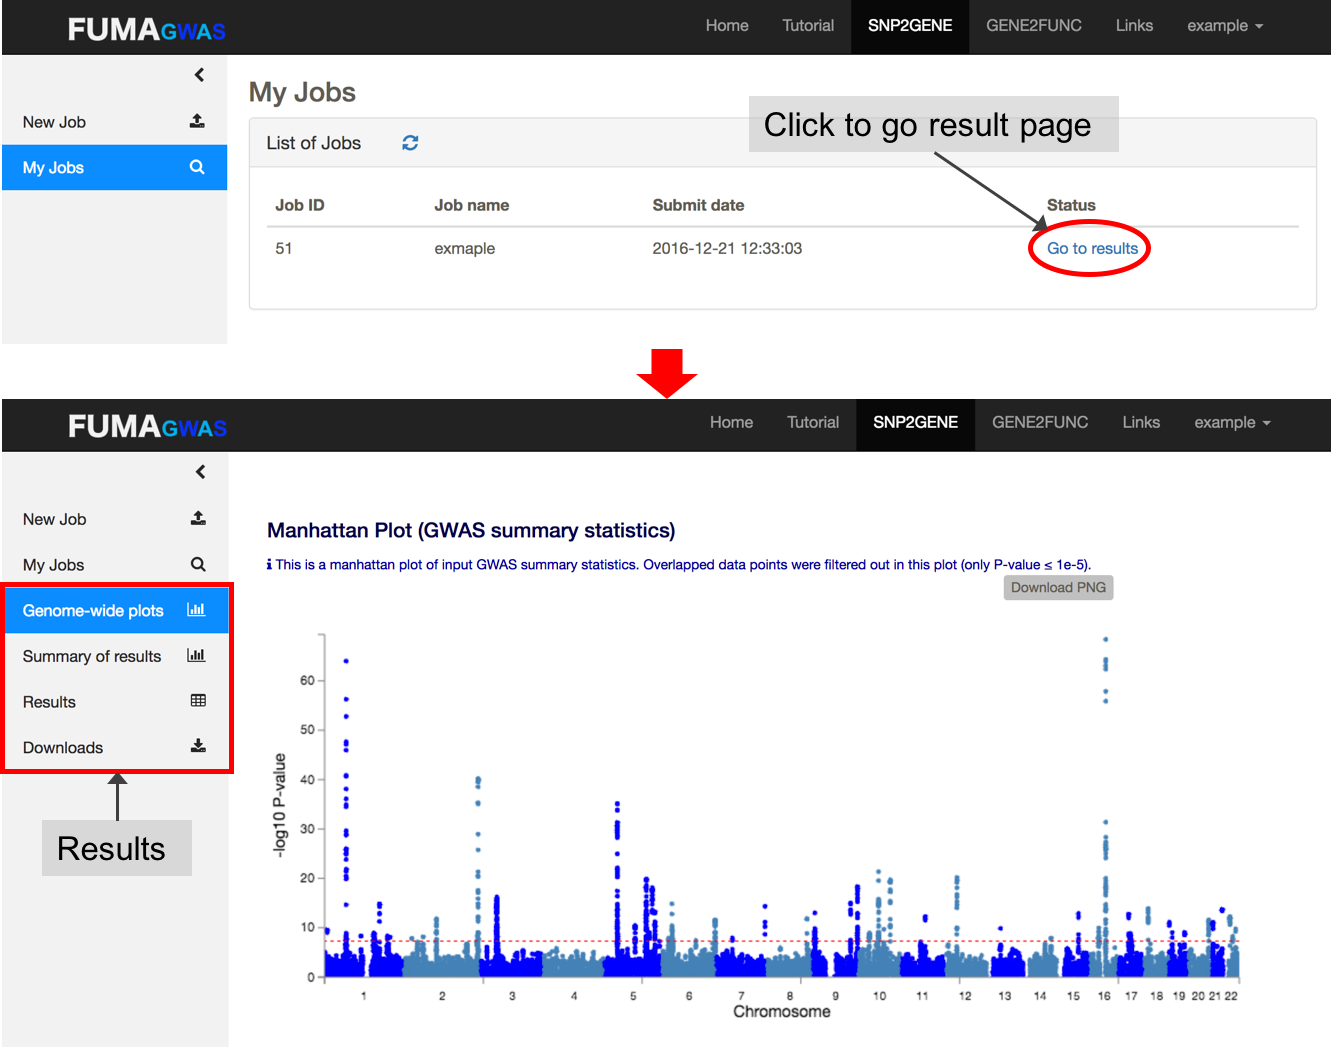
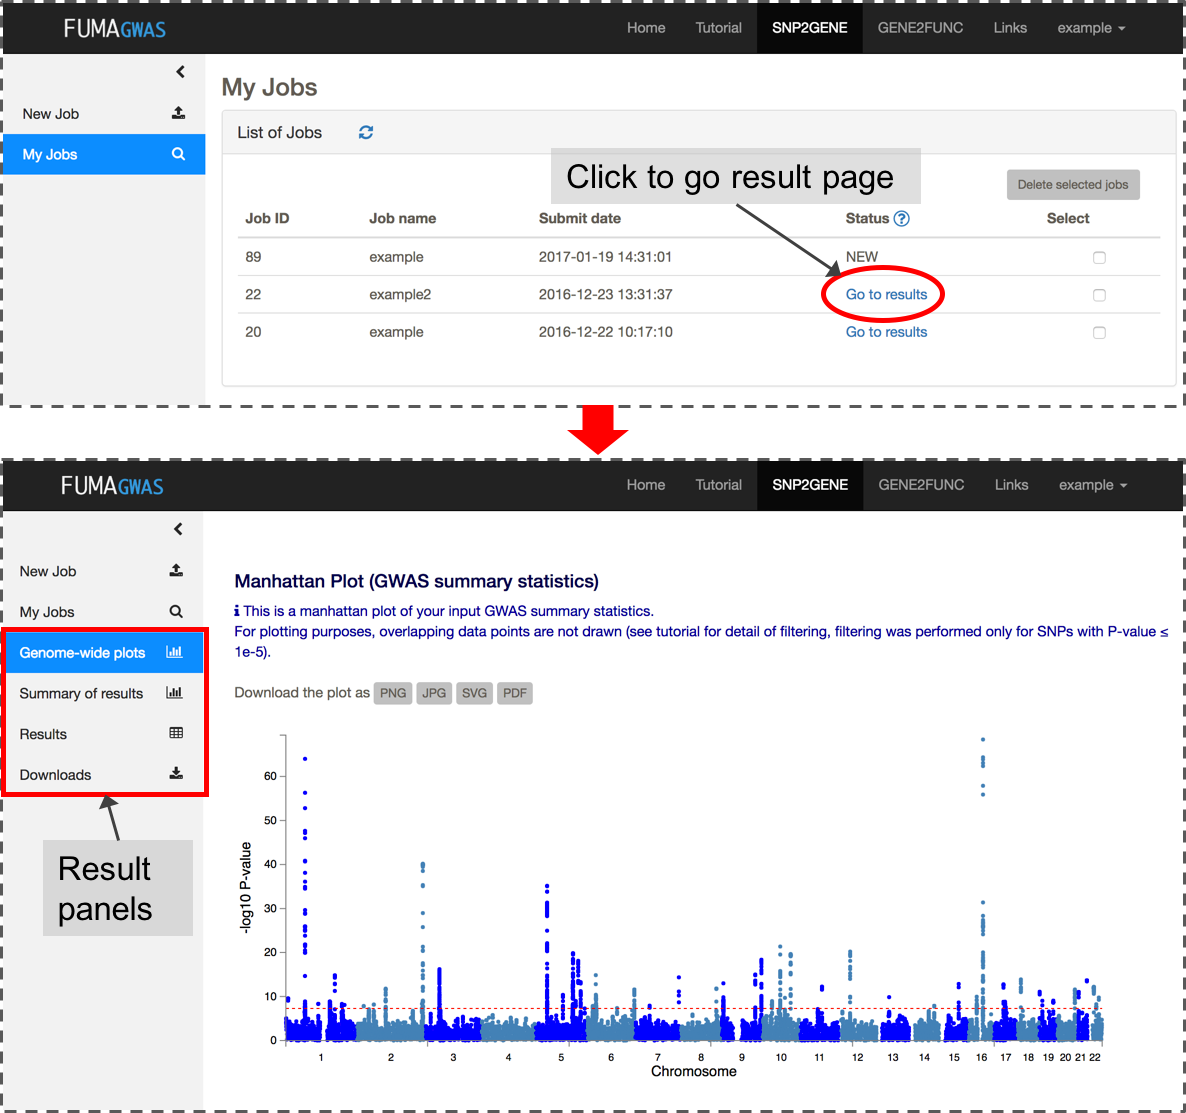
tutorial update 2

diff --git a/resources/views/pages/tutorial.blade.php b/resources/views/pages/tutorial.blade.php
@@ -156,22 +156,20 @@
             To filter SNPs by functional annotations and use eQTL mapping, please refer the parmeters section from <a class="inpage" href="{{ Config::get('app.subdir') }}/tutorial#parameters">here</a>.<br/>
             If all inputs are valid, 'Submit Job' button will be activated. Once you submit a job, this will be listed in My Jobs.<br/><br/>
             <img src="{!! URL::asset('/image/submitjob.png') !!}" style="width:70%"/><br/>
-          </p>
+          </p><br/>
 
           <p><h4><strong>4. Check your results</strong></h4>
-            One process is done, you will receive an email.
-            Unless an error occured during the process, the email includes the link to results page (this again requires login).
-            You can also access to the results page from My Job list.
-
+            Once process is done, you will receive an email.
+            Unless an error occured during the process, the email includes the link to the result page (this again requires login).
+            You can also access to the results page from My Jobs page. <br/>
             The result page display 4 additional side bars.<br/>
             <strong>Genome-wide plots</strong>: Manhattan plots and Q-Q plots for GWAS sumary statistics and gene-based test by MAGMA.<br/>
             <strong>Summary of results</strong>: Summarised results such as the number of candidate SNPs and mapped genes for overall and per genomic loci.<br/>
             <strong>Results</strong>: Tables of lead SNPs, genomic risk loci, candidate SNPs with annotations, eQTLs (only when eQTL mapping is performed), mapped genes and GWAS-catalog reported SNPs matched with candidate SNPs.
-            You can also create interactive regional plot with functional annotations from this tab.<br/>
-            <strong>Downloads</strong>: Download Results as text files.<br/>
-            Details for each panel are described in this tutorial <a class="inpage" href="{{ Config::get('app.subdir') }}/tutorial#outputs">here</a>.<br/><br/>
+            You can also create interactive regional plots with functional annotations from this tab.<br/>
+            <strong>Downloads</strong>: Download results as text files.<br/>
+            Details for each panel are described in the <a class="inpage" href="{{ Config::get('app.subdir') }}/tutorial#outputs">Outputs</a> section of this tutorial.<br/><br/>
             <img src="{!! URL::asset('/image/result.png') !!}" style="width:70%"/><br/><br/>
-            <img src="{!! URL::asset('/image/resultpanels.png') !!}" style="width:90%"/><br/>
           </p>
         </div>
         <br/>
